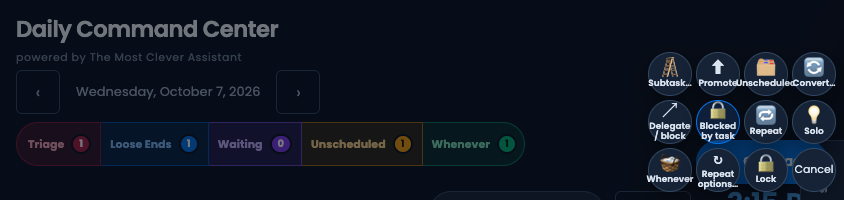
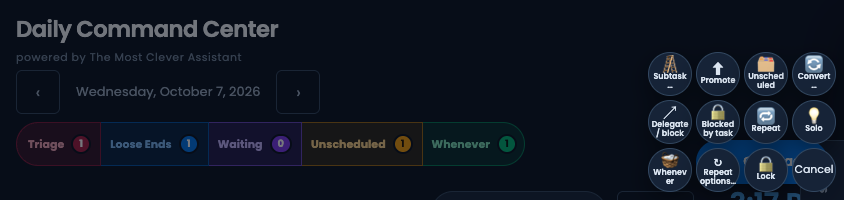
Keep compact landscape captions inside their targets

diff --git a/public/css/dashboard.css b/public/css/dashboard.css
@@ -5876,3 +5876,6 @@ body:has(#tab-budget.active .rb-create) #dcc-launcher-btn{display:none}
 .dest-radial-circle-item:focus-visible,.dest-radial-cancel:focus-visible{outline:2px solid var(--accent);outline-offset:3px}
 .dest-radial-cancel{position:fixed;z-index:20001;transform:translate(-50%,-50%);min-width:60px;min-height:44px;border-radius:22px;border:1px solid var(--border);background:var(--card);color:var(--text);font:inherit;font-size:11px;cursor:pointer}
 @media(prefers-reduced-motion:reduce){.dest-radial-item,.dest-radial-label{transition:none!important}}
+
+.dest-radial-compact-item{padding:2px;gap:1px;font-size:14px}
+.dest-radial-compact-item .dri-caption{width:100%;font-size:8px;line-height:1.05;overflow-wrap:anywhere}

diff --git a/public/js/radial-menu.js b/public/js/radial-menu.js
@@ -141,6 +141,7 @@ function openRadialMenu(anchorEl,items,opts){
     item.innerHTML='<span class="dri-icon">'+d.icon+'</span>';
     if(opts.fullCircle){
       item.classList.add("dest-radial-circle-item");
+      if(size<56)item.classList.add("dest-radial-compact-item");
       item.style.width=size+"px";item.style.height=size+"px";
       const caption=document.createElement("span");
       caption.className="dri-caption";caption.textContent=d.label;item.appendChild(caption);
